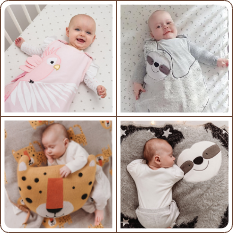
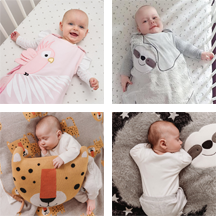
test

diff --git a/index.html b/index.html
@@ -101,17 +101,17 @@
         </svg>
       </div>
   
-      <!-- <div class="side_photo_div" style="background-image: url(images/Frame_4.svg);">
-        <img style="width: 220px; height: 220px; margin: 6px;" class="side_photo" src="images/photos/photo_1_1.png" alt="Baby photos">
-      </div> -->
-      <img class="side_photo" src="images/photos/photo_1_1.png" alt="Baby photos">
+      <div class="side_photo_div" style="background-image: url(images/Frame_4.svg);">
+        <img class="side_photo" src="images/photos/photo_1_1.png" alt="Baby photos">
+      </div>
       
-      <!-- <div> -->
+      <div class="side_photo_div" style="background-image: url(images/Frame_4.svg);">
         <img class="side_photo" src="images/photos/photo_1_2.png" alt="Baby photos">
-
-      <!-- </div> -->
-      <!-- <div></div> -->
-      <img class="side_photo" src="images/photos/photo_1_3.png" alt="Baby photos">
+      </div>
+      
+      <div class="side_photo_div" style="background-image: url(images/Frame_4.svg);">
+        <img class="side_photo" src="images/photos/photo_1_3.png" alt="Baby photos">
+      </div>
     </div>
   
     <div class="side_photos_div side_photos_div_right side_photos_div_1">
@@ -122,9 +122,15 @@
         </svg>
       </div>
       
-      <img class="side_photo" src="images/photos/photo_1_4.png" alt="Baby photos">
-      <img class="side_photo" src="images/photos/photo_1_5.png" alt="Baby photos">
-      <img class="side_photo" src="images/photos/photo_1_6.png" alt="Baby photos">
+      <div class="side_photo_div" style="background-image: url(images/Frame_4.svg);">
+        <img class="side_photo" src="images/photos/photo_1_4.png" alt="Baby photos">
+      </div>
+      <div class="side_photo_div" style="background-image: url(images/Frame_4.svg);">
+        <img class="side_photo" src="images/photos/photo_1_5.png" alt="Baby photos">
+      </div>
+      <div class="side_photo_div" style="background-image: url(images/Frame_4.svg);">
+        <img class="side_photo" src="images/photos/photo_1_6.png" alt="Baby photos">
+      </div>
     </div>
   </div>
   
@@ -744,16 +750,19 @@
     change_dreams_btn_2.style.color = offwhite;
     changePhotos();
   })
-let a = [[1, 2, 3, 4, 5, 6], [2, 2, 2, 1, 1, 1], [3, 3, 1, 1, 1, 1], [4, 4, 4, 4, 4, 4]]
+
+  let frameNums = [[1, 2, 3, 4, 5, 6], [2, 2, 2, 1, 1, 1], [3, 3, 1, 1, 1, 1], [4, 4, 4, 4, 4, 4]]
   function changePhotos()
   {
+    let sidePhotoDivs = document.getElementsByClassName("side_photo_div");
     let sidePhotos = document.getElementsByClassName("side_photo");
     photoIndex = (photoIndex + 1) % 4
 
     for (let i = 0; i < 6; i++)
     {
       sidePhotos[i].src = "images/photos/photo_" + (photoIndex + 1) + '_' + (i + 1) + ".png";
-      sidePhotos[i].style.backgroundImage = "url(images/Frame_1)";
+      let frameNum = frameNums[photoIndex][i];
+      sidePhotoDivs[i].style.backgroundImage = "url(images/Frame_" + frameNum + ".svg)";
     }
   }
 </script>

diff --git a/css/styles.css b/css/styles.css
@@ -171,9 +171,6 @@ body {
 .side_photos_div_1 {
   margin-top: 72px;
 }
-.side_photo {
-  margin: 16px 0;
-}
 
 .change_photos_btn {
   width: 160px;
@@ -241,8 +238,14 @@ body {
   .side_photos_div_right {
     right: calc(2.6vw - 18px);
   }
+  .side_photo_div {
+    margin: 24px 0;
+  }
   .side_photo {
-    width: 232px;
+    margin: 4px;
+    width: 224px;
+    height: 224px;
+    border-radius: 8px;
   }
 }
 @media all and (max-width: 767.97px)
@@ -264,12 +267,14 @@ body {
   .side_photos_div {
     position: relative;
     display: inline-block;
-    width: 148px;
+    /* width: 139.2px; */
     padding-left: calc((12.3vw - 34px) * 3 / 5);
     padding-right: calc((12.3vw - 34px) * 3 / 5);
   }
   .side_photo {
-    width: 148px;
+    margin: 2.4px;
+    width: 134.4px;
+    height: 134.4px;
   }
   .change_photos_btn {
     display: none;
